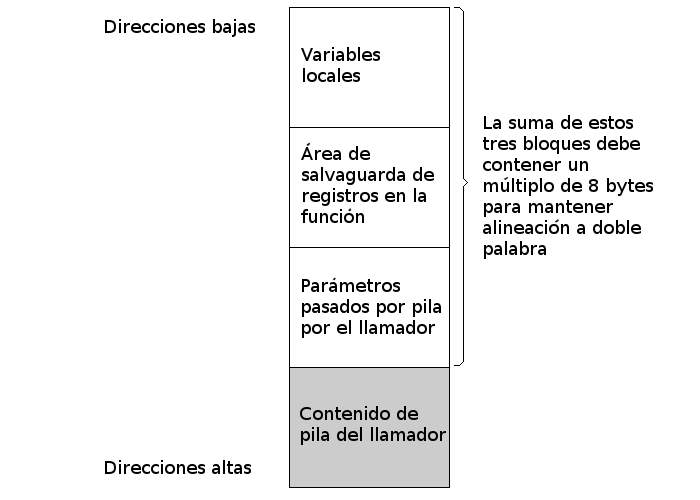
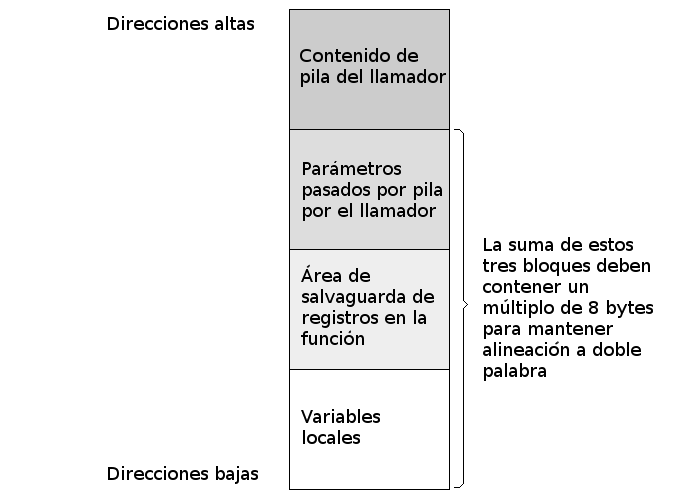
Corregido capítulo 3 y añadidos dos gráficos más

diff --git a/Capitulo03.tex b/Capitulo03.tex
@@ -115,7 +115,7 @@ Las instrucciones {\tt ldm} y {\tt stm} tienen la siguiente sintaxis.
 
 {\bf !} Es un sufijo opcional. Si está presente, actualizamos {\tt rn} al final de la operación.
 
-{\bf cond} Una lista de uno o más registros, que serán leídos o escritos en memoria. La
+{\bf lista\_reg} Una lista de uno o más registros, que serán leídos o escritos en memoria. La
           lista va encerrada entre llaves y separada por comas. También podemos
           usar un rango de registros. En este ejemplo se almacenan los registros {\tt r3, r4,
           r5, r6, r10 y r12}.
@@ -125,8 +125,8 @@ Las instrucciones {\tt ldm} y {\tt stm} tienen la siguiente sintaxis.
 \end{lstlisting}
 
 Si tenemos en cuenta que {\tt push} predecrementa, que {\tt pop} postincrementa y que ambas
-actualizan el registro base, la traducción de las pseudoinstrucciones {\tt push \{r4, r6\}}
-y {\tt pop \{r4, r6\}} serían respectivamente.
+actualizan el registro base (que sería {\tt sp}), la traducción de las pseudoinstrucciones
+{\tt push \{r4, r6\}} y {\tt pop \{r4, r6\}} serían respectivamente.
 
 \begin{lstlisting}
     stmdb sp!, {r4, r6}    /* push */
@@ -393,7 +393,7 @@ es de 4 (dos en caso de parámetros de 64 bits), siempre en los registros desde 
 
 Las variables locales se alojan debajo del área de salvaguarda de registros, para ello hay que
 hacer espacio decrementando el puntero de pila una cierta cantidad de bytes, e incrementando esa
-misma cantidad justo antes de salir de la función. En la siguiente imágen vemos el uso de la pila
+misma cantidad justo antes de salir de la función. En la figura \ref{fig:pila} vemos el uso de la pila
 de una función genérica.
 
 \begin{figure}[h]
@@ -409,7 +409,7 @@ dos variables locales. Como la suma es de 12 bytes, que no es múltiplo de 8, re
 añadiendo una tercera variable local que no usaremos (también podríamos haber salvaguardado un
 segundo registro).
 
-Nuestro mapa particular quedaría así.
+Nuestro mapa particular lo podemos observar en la figura \ref{fig:pila2}.
 
 \begin{figure}[h]
   \centering
@@ -549,8 +549,8 @@ subrutina, tampoco hemos hecho uso de las variables locales.
 La optimización consiste en procesar la primera rama antes de las operaciones con la pila,
 de esta forma nos ahorramos algunos ciclos de reloj. Es un buen ejemplo para comprobar
 lo flexibles que pueden ser las funciones: hay funciones en las que podemos evitar tratar
-con la pila, \ref{lst:codigoPract3_3}, otros en las que no tenemos más remedio, y un último
-caso en las que podemos tener una mezcla de ambas.
+con la pila como en el listado \ref{lst:codigoPract3_3}, otras en las que no tenemos más
+remedio, y un último caso en que podemos tener una mezcla de ambas.
 
 \begin{lstlisting}[caption={Parte del código del programa subrut4.s},label={lst:codigoPract3_6},escapeinside={@}{@}]
 fibo:   cmp     r0, #2
@@ -572,7 +572,7 @@ fibo:   cmp     r0, #2
         bx      lr
 \end{lstlisting}
 
-\subsection{Funciones con muchas entradas}
+\subsection{Funciones con muchos parámetros de entrada}
 
 Lo último que nos falta por ver es cómo acceder a los parámetros de una función por pila, para
 lo cual necesitamos una función de al menos cinco parámetros. Lo más sencillo que se nos ocurre
@@ -672,10 +672,22 @@ poly3:  push    {r4}
 \end{lstlisting}
 
 Vemos como hemos usado un {\tt .equ} para facilitar la legibilidad del código, así
-accedemos al índice del quinto parámetro sin tener que hacer cálculos. Se pueden
-combinar los {\tt .equ} de variables locales con los de parámetros por pila de
-la siguiente forma.
+accedemos al índice del quinto parámetro sin tener que hacer cálculos. El mapa de la
+pila quedaría así.
 
+\begin{figure}[h]
+  \centering
+    \includegraphics[width=14cm]{graphs/pila3.png}
+  \caption{Mapa de pila de función poly3}
+  \label{fig:pila3}
+\end{figure}
+
+Se pueden combinar los {\tt .equ} de variables locales con los de parámetros por pila,
+por ejemplo si tuviésemos una función hipotética con 6 parámetros (dos de ellos pasados
+por pila), 3 variables locales y salvaguarda de 3 registros, lo haríamos de la
+siguiente forma.
+
+\begin{lstlisting}
       .equ    local1,   0
       .equ    local2,   4+local1
       .equ    local3,   4+local2
@@ -685,9 +697,25 @@ la siguiente forma.
 
 func: push    {r4, r5, lr}
       ...
+\end{lstlisting}
 
-Aquí tendríamos una función con 3 variables locales, 3 registros salvados y 6
-parámetros (2 de los cuales se pasan por pila).
+Y éste sería el mapa de pila de nuestra hipotética función.
+
+\begin{figure}[h]
+  \centering
+    \includegraphics[width=14cm]{graphs/pila4.png}
+  \caption{Mapa de función hipotética}
+  \label{fig:pila4}
+\end{figure}
+
+Los números que hemos puesto números a la izquierda de cada elemento se
+corresponden con las constantes que calcula el preprocesador para el
+desplazamiento respecto al puntero de pila. De no haber empleado la lista
+de {\tt .equ} tendríamos que calcular nosotros mismos estos desplazamientos,
+y lo que es peor, el código perdería legibilidad. No es lo mismo poner
+{\tt ldr r4, [sp, \#param5]}, que por ejemplo {\tt ldr r4, [sp, \#24]}, habría
+que revisar a qué corresponde el desplazamiento {\tt \#24} o indicarlo como
+comentario.
 
 Por norma general en la arquitectura ARM se emplean muy poco las variables
 locales, ya que operar con éstas implica guardarlas y restaurarlas de memoria,
@@ -742,7 +770,7 @@ cada llamada a {\tt poly3}.
 Un detalle muy importante que no podemos observar en nuestro ejemplo, los
 parámetros que pasamos por pila lo hacemos en orden inverso desde el último
 al quinto. Esto es así porque la pila crece hacia abajo. Es más, es
-aconsejable hacerlo reusar los registros {\tt r0-r3} para introducir los
+aconsejable reusar los registros {\tt r0-r3} para introducir los
 parámetros por pila. Si tuviésemos que pasar 6 parámetros, constantes del
 1 al 6 lo haríamos así.
 
@@ -802,27 +830,28 @@ serie de puntos desde que pasamos los parámetros en el llamador hasta que resta
 la pila desde el llamador, pasando por la llamada a la función y la ejecución de la misma.
 
 \begin{itemize}
-  \item Usamos los registros {\tt r0-r3} como almacén temporal y pasamos por pila
+  \item Usamos los registros {\tt r0-r3} como almacén temporal el llamador pasa por pila
         los parámetros quinto, sexto, etc... hasta el último. Cuidado con el orden,
         especialmente si se emplea un {\tt push} múltiple. Opcional, sólo si nuestra
         función tiene más de 4 parámetros.
-  \item Escribimos los primeros 4 parámetros en {\tt r0-r3}. Opcional, nos podemos saltar
-        este paso si nuestra función no tiene parámetros.
-  \item Hacemos la llamada a la función con {\tt bl}. Este paso es obligatorio.
-  \item Salvaguardamos los registros desde {\tt r4} que emplearemos como registros
-        temporales en nuestra función. También opcional.
-  \item Decrementamos la pila para hacer hueco a las variables locales. La suma de bytes
+  \item El llamador escribe los primeros 4 parámetros en {\tt r0-r3}. Opcional, nos
+        podemos saltar este paso si nuestra función no tiene parámetros.
+  \item El llamador invoca a la función con {\tt bl}. Este paso es obligatorio.
+  \item Ya dentro de la función, lo primero que hace esta es salvaguardar los registros
+        desde {\tt r4} que se empleen más adelante como registros temporales. También opcional.
+  \item Decrementar la pila para hacer hueco a las variables locales. La suma de bytes
         entre paso de parámetros por pila, salvaguarda y variables locales debe ser
         múltiplo de 8, rellenar aquí hasta completar. Como este paso es opcional, en caso
         de no hacerlo aquí rellenar en el paso anterior.
-  \item Hacemos las operaciones necesarias para nuestra función, accediendo a parámetros
-        y variables locales mediante constantes {\tt .equ} para aportar mayor claridad
-        al código. Devolver el valor resultado en {\tt r0} (ó en {\tt r1:r0} si es doble
+  \item La función realiza las operaciones que necesite para completar su objetivo, accediendo
+        a parámetros y variables locales mediante constantes {\tt .equ} para aportar mayor claridad
+        al código. Se devuelve el valor resultado en {\tt r0} (ó en {\tt r1:r0} si es doble
         palabra).
-  \item Incrementamos pila para revertir el alojamiento de variables locales.
-  \item Recuperamos con {\tt pop} la lista de registros salvaguardados.
-  \item Retornamos la función con {\tt bx lr}
-  \item Equilibramos la pila desde el llamador en caso de haber pasado parámetros por pila.
+  \item Incrementar la pila para revertir el alojamiento de variables locales.
+  \item Recuperar con {\tt pop} la lista de registros salvaguardados.
+  \item Retornar la función con {\tt bx lr} volviendo al código llamador, exactamente a la
+        instrucción que hay tras el {\tt bl}. 
+  \item El llamador equilibra la pila en caso de haber pasado parámetros por ella.
 \end{itemize}
 
 \section{Ejercicios}
@@ -874,46 +903,9 @@ menor que la variable.
 \end{myfbox}
 \end{center}
 
-Una vez hecho el ejercicio observa lo molesto que resulta el tener que
-comprobar la longitud del vector cada vez que añadimos y eliminamos un
-elemento. ¿Cómo resolverias este problema en C empleando {\tt sizeof}?
+\subsection{Media aritmética, macros y conteo de ciclos}
 
-Ahora convierte a ensamblador la función {\tt main} anterior. ¿Se te
-ocurre alguna alternativa para el {\tt sizeof}?.
-
-\begin{center}
-\begin{myfbox}
-\small
-\begin{minipage}{0.92\linewidth}
-\begin{center}
-\colorbox[gray]{1}{\rule{0cm}{4.5cm}\rule{11cm}{0cm}}
-\end{center}
-\end{minipage}
-\end{myfbox}
-\end{center}
-
-Nota de ayuda: El preprocesador del {\bf as} no es muy potente pero
-suficiente para realizar cálculos aritméticos sencillos sobre constantes
-y etiquetas. Recuerda que las sumas y restas tienen menos prioridad que
-las multiplicaciones y divisiones, ante la duda usa siempre los paréntesis.
-Al ser la aritmética sólo de enteros, la división nunca devuelve
-decimales, lo que se hace es truncar el valor. Truncar es redondear hacia
-abajo al entero más cercano, de tal forma que {\tt 7/8} vale {\tt 1} a
-pesar de que su resultado real esté más cerca del {\tt 2}.
-
-En caso de trabajar con potencias de 2 podemos reemplazar las
-multiplicaciones y divisiones por desplazamientos, y los módulos por
-{\tt and} lógicos.
-
-\begin{lstlisting}
-        mov     r1, #(fin-ini)/16
-        mov     r1, #(fin-ini)>>4
-        ...
-        mov     r2, # 1234 % 8
-        mov     r2, # 1234 & 7
-\end{lstlisting}
-
-\subsection{Media aritmética de dos números}
+\subsubsection{Media aritmética}
 
 Escribe una función en ensamblador que calcule la media aritmética (truncada porque
 trabajamos con enteros) de dos números. Escribe también la función {\tt main} con 
@@ -939,6 +931,8 @@ subrutina. La única excepción es {\tt bl printf}, que debes contar como un ún
 Haz lo mismo pero usando la herramienta {\tt gdb} para comprobar el resultado anterior.
 Recuerda no meterte dentro de los printf con {\tt ni}, en las llamadas a la función
 {\tt abs} usa {\tt si}.
+
+\subsubsection{Macros}
 
 Hay una forma de acelerar las funciones, aunque sólo es práctica para funciones pequeñas
 que se utilicen mucho. Se trata de escribir el contenido de la función en lugar de
@@ -1002,7 +996,12 @@ start / si 6 / ni / si 5 / ni /
 6+1+(5+1)*3+2 = 27
 \end{lstlisting}
 
-Usa las macros en el ejercicio de la media y rellena la siguiente tabla.
+Reescribe el ejercicio anterior de la media aritmética empleando macros en vez de
+funciones.
+
+\subsubsection{Conteo de ciclos}
+
+Completa la siguiente tabla usando los dos tipos de conteo que acabamos de explicar.
 
 \begin{center}
 \small
